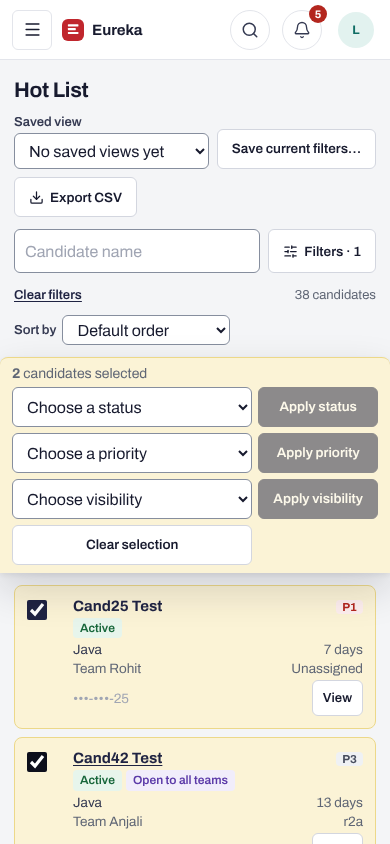
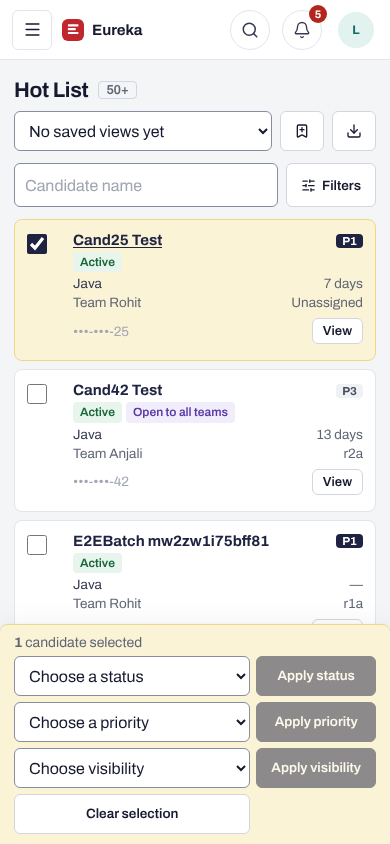
fix(web): finish-review fixes for the Hot List rebrand
- 35px rows (17 visible at 1440x900): single-line names, nowrap status
  chips, lead back in its own wide-screen column, compact row action
- red only on the mark, nav and tab rules and errors: no red top rule,
  P1 is a carbon chip, dashboard rank bars drop the indigo gradient
- result count beside the h1; selection bar takes the chip row's place
- phones: saved view and export in one row of icon buttons; bulk bar
  fixed to the bottom; units shown only with a value
- dark sidebar distinct from the page; login heading 'Sign in to Eureka'

Claude-Session: https://claude.ai/code/session_01JKYQcwPGDfTTrqpGH3t4oH

diff --git a/apps/web/src/styles.css b/apps/web/src/styles.css
@@ -36,7 +36,7 @@
   --pri-50: #20243b; --pri-100: #2a2f4b; --pri-200: #3b4166; --pri-700: #dfe1ee;
   --brand: #ff6a61; --brand-ink: #ff8a83;
   --sel: rgba(250, 204, 21, .10); --sel-line: rgba(250, 204, 21, .32);
-  --side-bg: #0a0c19; --side-line: #1d2036; --side-text: #c6c9d8; --side-muted: #8b90a8; --side-hover: #171a2e; --side-current: #1f2340;
+  --side-bg: #191c34; --side-line: #2a2e4c; --side-text: #c6c9d8; --side-muted: #8b90a8; --side-hover: #22264a; --side-current: #2b3060;
   --ok-bg: rgba(34, 197, 94, .14); --ok-fg: #5fdc8c; --ok-line: rgba(34, 197, 94, .35);
   --warn-bg: rgba(245, 158, 11, .14); --warn-fg: #f5bd4f; --warn-line: rgba(245, 158, 11, .35);
   --bad-bg: rgba(244, 63, 94, .14); --bad-fg: #ff7f86; --bad-line: rgba(244, 63, 94, .35);
@@ -62,7 +62,7 @@ table, .num, .pager-page { font-variant-numeric: tabular-nums; }
 /* Shell: carbon sidebar (brand rule, condensed caps section labels), light top bar */
 .app { display: grid; grid-template-columns: 232px minmax(0, 1fr); min-height: 100vh; }
 .side { background: var(--side-bg); color: var(--side-text); border-right: 1px solid var(--side-line); padding: 0 10px 12px; display: flex; flex-direction: column; gap: 2px;
-  position: sticky; top: 0; height: 100vh; overflow-y: auto; box-shadow: inset 0 3px 0 var(--brand); scrollbar-color: var(--side-line) transparent; }
+  position: sticky; top: 0; height: 100vh; overflow-y: auto; scrollbar-color: var(--side-line) transparent; }
 .brandrow { display: flex; align-items: center; justify-content: space-between; gap: 8px; height: 60px; padding: 3px 6px 0; flex: none; }
 .brand { color: var(--text); font-weight: 700; display: flex; gap: 10px; align-items: center; min-width: 0; }
 .side .brand { color: #fff; }
@@ -138,7 +138,7 @@ tbody tr[aria-selected="true"] td, tbody tr.selected td { background: var(--sel)
 .badge.active { background: var(--ok-bg); color: var(--ok-fg); } .badge.on_hold { background: var(--warn-bg); color: var(--warn-fg); }
 .badge.full_of_interviews { background: var(--info-bg); color: var(--info-fg); } .badge.all_teams { background: var(--violet-bg); color: var(--violet-fg); }
 .prio { font-weight: 700; font-size: 11.5px; padding: 1px 6px; border-radius: var(--r-sm); background: var(--neutral-bg); color: var(--neutral-fg); font-variant-numeric: tabular-nums; }
-.prio.P1 { background: var(--bad-bg); color: var(--bad-fg); } .prio.P2 { background: var(--warn-bg); color: var(--warn-fg); }
+.prio.P1 { background: var(--pri-btn); color: var(--on-pri); } .prio.P2 { background: var(--warn-bg); color: var(--warn-fg); }
 .masked { color: var(--faint); }
 .tabs { display: flex; gap: 8px; }
 .tab { border: 1px solid var(--line-strong); background: var(--surface); height: 30px; padding: 0 12px; border-radius: var(--r-md); font-weight: 600; font-size: 13px; color: var(--text2); display: inline-flex; align-items: center; }
@@ -171,7 +171,7 @@ tbody tr[aria-selected="true"] td, tbody tr.selected td { background: var(--sel)
 /* Sign-in: brand panel on the left, the form on the right */
 .loginpage { display: grid; grid-template-columns: minmax(0, 1fr) minmax(0, 1.1fr); min-height: 100vh; background: var(--surface); }
 .loginhero { margin: 0; color: var(--side-text); display: flex; flex-direction: column; justify-content: space-between; padding: 40px 48px 56px;
-  background: var(--side-bg); box-shadow: inset 0 3px 0 var(--brand); min-height: 100vh; }
+  background: var(--side-bg); min-height: 100vh; }
 .loginhero .brand { color: #fff; }
 .herotext { max-width: 520px; }
 .herotext h2 { font-size: 36px; line-height: 1.12; letter-spacing: -.02em; color: #fff; font-weight: 700; text-wrap: balance; }
@@ -508,7 +508,8 @@ th.num, td.num { text-align: right; font-variant-numeric: tabular-nums; }
 .bulkbar { position: sticky; top: 64px; z-index: 6; padding: 8px 12px; border: 1px solid var(--sel-line); border-radius: var(--r-md); background: var(--sel); }
 .bulkbar .toolbar { align-items: center; gap: 8px; }
 .bulkbar .field.inline label { position: absolute; width: 1px; height: 1px; overflow: hidden; clip: rect(0 0 0 0); white-space: nowrap; }
-.bulkbar .field select { min-width: 0; width: 170px; }
+.bulkbar .field select { min-width: 0; width: 150px; }
+.bulkbar .toolbar { flex-wrap: nowrap; }
 .bulkbar > [role="status"]:empty, .bulkbar p:empty { display: none; }
 .bulkfail { margin: 4px 0 0; padding-left: 18px; font-size: 12px; color: var(--warn-fg); }
 /* Resumes (CandidateResumes) */
@@ -1139,7 +1140,7 @@ tr.editing:hover td { background: var(--surface2); }
 .ranklist li { display: grid; grid-template-columns: minmax(0, 1.3fr) minmax(0, 1.4fr) 36px 56px; align-items: center; gap: 12px; }
 .rankname { color: var(--text2); font-weight: 500; overflow: hidden; text-overflow: ellipsis; white-space: nowrap; }
 .rankbar { height: 8px; border-radius: 999px; background: var(--line2); overflow: hidden; }
-.rankbar > span { display: block; height: 100%; border-radius: inherit; background: linear-gradient(90deg, #6366f1, #8b5cf6); }
+.rankbar > span { display: block; height: 100%; border-radius: inherit; background: var(--pri); }
 .rankvalue { text-align: right; font-variant-numeric: tabular-nums; color: var(--text); }
 .rankdelta { display: inline-flex; align-items: center; gap: 2px; font-size: 12px; font-weight: 600; justify-content: flex-end; }
 .rankdelta.up { color: var(--ok-fg); } .rankdelta.down { color: var(--bad-fg); } .rankdelta.flat { color: var(--muted); }
@@ -1213,14 +1214,19 @@ tr.editing:hover td { background: var(--surface2); }
 .fb-summary .chips { gap: 6px; }
 .fb-summary .chip { padding: 2px 2px 2px 8px; background: var(--surface); border: 1px solid var(--line-strong); color: var(--text); font-weight: 500; }
 .fb-summary .linkbtn { font-weight: 600; font-size: 13px; text-decoration: underline; text-underline-offset: 2px; min-height: 24px; }
-.fb-count { margin-left: auto; font-size: 13px; }
 .fb-sort { flex-direction: row; align-items: center; gap: 6px; }
 .fb-sort select { height: var(--h-compact); width: 170px; min-width: 0; }
 .listcard td small.block { font-size: 12px; line-height: 1.3; margin-top: 1px; }
-.listcard .badges { display: inline-flex; gap: 4px; flex-wrap: wrap; }
-.listcard td.c-name { white-space: normal; min-width: 150px; max-width: 220px; }
-.listcard td.c-name .persontext > b, .listcard td.c-name .persontext .linkbtn { white-space: normal; overflow-wrap: anywhere; }
-.listcard td.c-status { white-space: normal; min-width: 120px; max-width: 200px; }
+.listcard .badges { display: inline-flex; gap: 4px; flex-wrap: nowrap; }
+.listcard td { padding-block: 7px; }
+.listcard td.c-act, .listcard td.c-sel { padding-block: 4px; }
+.listcard td.c-act .btn.sm { height: 26px; padding: 0 10px; }
+.listcard td.c-name { max-width: 200px; }
+.listcard td.c-name .persontext, .listcard td.c-name .linkbtn { display: block; max-width: 100%; }
+.listcard td.c-name .persontext > b, .listcard td.c-name .linkbtn b { display: block; overflow: hidden; text-overflow: ellipsis; }
+.h1count { margin-left: 10px; font-size: 15px; font-weight: 600; color: var(--muted); font-variant-numeric: tabular-nums; vertical-align: 3px; padding: 1px 7px; border: 1px solid var(--line-strong); border-radius: var(--r-sm); }
+.fb-spacer { margin-left: auto; }
+@media (min-width: 769px) { .filterbar > .bulkbar { position: static; } }
 .listcard td, .listcard th { padding-inline: 10px; }
 td.num, th.num { text-align: right; }
 tr.rowopen { cursor: pointer; }
@@ -1232,14 +1238,19 @@ thead .c-act { background: var(--surface2); }
 tbody tr:hover td.c-act { background: var(--surface2); }
 tbody tr[aria-selected="true"] td.c-act { background: var(--sel); }
 @media (max-width: 1599px) { .cardtable .p3 { display: none; } }
-@media (max-width: 1279px) { .cardtable .p2 { display: none; } }
+@media (max-width: 1399px) { .cardtable .p2 { display: none; } }
 @media (max-width: 768px) {
   .pagehead .sub { display: none; }
-  .pageactions { width: 100%; display: flex; flex-wrap: wrap; gap: 8px; align-items: end; }
-  .pageactions .savedviews { min-width: 0; flex: 1 1 100%; }
-  .pageactions .savedviews .toolbar { display: grid; grid-template-columns: minmax(0, 1fr) auto; }
-  .pageactions .savedviews .field select { width: 100%; }
-  .pageactions .savedviews .toolbar > .btn, .pageactions .export .btn { height: 40px; }
+  .pageactions { width: 100%; display: flex; flex-wrap: nowrap; gap: 8px; align-items: center; }
+  .pageactions .savedviews { min-width: 0; flex: 1 1 auto; }
+  .pageactions .savedviews .toolbar { display: flex; flex-wrap: nowrap; gap: 8px; }
+  .pageactions .savedviews .field { flex: 1; min-width: 0; }
+  .pageactions .savedviews .field label { position: absolute; width: 1px; height: 1px; overflow: hidden; clip: rect(0 0 0 0); white-space: nowrap; }
+  .pageactions .savedviews .field select { width: 100%; height: 40px; }
+  .pageactions .savedviews .toolbar > .btn, .pageactions .export .btn { height: 40px; width: 44px; padding: 0; }
+  .pageactions .btnlabel { position: absolute; width: 1px; height: 1px; overflow: hidden; clip: rect(0 0 0 0); white-space: nowrap; }
+  .pagehead { gap: 8px; }
+  .h1count { font-size: 13px; }
   .fb-row { flex-wrap: nowrap; }
   .fb-search { flex: 1; min-width: 0; }
   .fb-search input { width: 100%; height: 44px; }

diff --git a/apps/web/src/sales/HotListPage.tsx b/apps/web/src/sales/HotListPage.tsx
@@ -4,7 +4,7 @@ import type { Permission } from "@eureka/shared";
 import type { Candidate, Me } from "../api";
 import { salesError } from "./errors";
 import { BulkBar, ExportButton, SavedViews } from "./HotListExtras";
-import { ListFilters, ListFooter } from "./ListControls";
+import { ListFilters, ListFooter, resultCount } from "./ListControls";
 import { useQuery } from "@tanstack/react-query";
 import { HOTLIST_STATUS_OPTIONS, hotlistApi, salesKeys } from "./salesApi";
 import { Drawer, OpenToAllBadge, SharedBadge, Phone, Priority, StatusBadge, fmtDate } from "./ui";
@@ -72,14 +72,14 @@ export function HotListPage({ me, onOpenProfile }: ListPageProps) {
     if (next.has(id)) next.delete(id); else next.add(id);
     return next;
   });
-  const cols = canBulk ? 13 : 12;
+  const cols = canBulk ? 14 : 13;
   const yesNo = (v: boolean | null | undefined) => (v === true ? "Yes" : v === false ? "No" : "—");
 
   return (
     <>
       <div className="pagehead">
         <div>
-          <h1 tabIndex={-1}>Hot List</h1>
+          <h1 tabIndex={-1}>Hot List{resultCount(s) && <span className="h1count" aria-label={`, ${resultCount(s)} candidates`}>{resultCount(s)}</span>}</h1>
           <p className="sub">Your team's candidates and every candidate open to all teams. Phones show only for candidates in your scope.</p>
         </div>
         <div className="pageactions">
@@ -87,11 +87,11 @@ export function HotListPage({ me, onOpenProfile }: ListPageProps) {
           {canExport && <ExportButton s={s} />}
         </div>
       </div>
-      <ListFilters s={s} label="Hot List" statuses={HOTLIST_STATUS_OPTIONS} options={options.data} />
-      {canBulk && (
-        <BulkBar selected={selected} items={items} canStatus={canStatus} canVisibility={canVisibility}
-          onDone={() => setSelected(new Set())} />
-      )}
+      <ListFilters s={s} label="Hot List" statuses={HOTLIST_STATUS_OPTIONS} options={options.data} selecting={canBulk && selected.size > 0}
+        selection={canBulk && (
+          <BulkBar selected={selected} items={items} canStatus={canStatus} canVisibility={canVisibility}
+            onDone={() => setSelected(new Set())} />
+        )} />
       <div className="card tablewrap listcard">
         {s.q.isLoading ? <Loading /> : s.q.error ? <QueryError query={s.q} message={salesError(s.q.error)} /> : (
           <table className="cardtable hotlist" aria-label="Hot List" aria-busy={s.q.isFetching || undefined}>
@@ -107,7 +107,7 @@ export function HotListPage({ me, onOpenProfile }: ListPageProps) {
                     })} />
                 </th>
               )}
-              <th>Candidate</th><th>Technology</th><th>Status</th><th>Pri</th><th>Team</th><th>Recruiter</th>
+              <th>Candidate</th><th>Technology</th><th>Status</th><th>Pri</th><th>Team</th><th className="p3">Lead</th><th>Recruiter</th>
               <th className="p2">Location</th><th className="p2">Visa</th><th className="p3">Stay</th><th className="p3">In person</th>
               <th>Phone</th><th className="num">Days</th><th className="c-act"><span className="sr-only">Actions</span></th>
             </tr></thead>
@@ -133,14 +133,15 @@ export function HotListPage({ me, onOpenProfile }: ListPageProps) {
                     {c.statusLabel && c.statusLabel.includes("/") && !/\/all teams$/i.test(c.statusLabel) && <small className="block">{c.statusLabel}</small>}
                   </td>
                   <td className="c-pri"><Priority p={c.priority} /></td>
-                  <td className="c-team">{c.team.name}{c.team.lead && <small className="block">Lead <span>{c.team.lead}</span></small>}</td>
+                  <td className="c-team">{c.team.name}</td>
+                  <td className="p3">{c.team.lead ?? "—"}</td>
                   <td className="c-rec">{c.recruiter?.name ?? <span className="muted">Unassigned</span>}</td>
                   <td className="p2">{c.location.name}</td>
                   <td className="p2">{c.visaCategory ? visaLabel(c.visaCategory) : "—"}</td>
                   <td className="p3">{c.stay ? stayLabel(c) : "—"}</td>
                   <td className="p3">{yesNo(c.inPersonOk)}</td>
                   <td className={`c-phone${c.phoneMasked ? " masked" : ""}`}><Phone c={c} /></td>
-                  <td className="c-days num">{c.daysInMarket ?? "—"}<span className="cardonly"> days</span></td>
+                  <td className="c-days num">{c.daysInMarket != null ? <>{c.daysInMarket}<span className="cardonly"> days</span></> : "—"}</td>
                   <td className="c-act">
                     <button type="button" className="btn sm" aria-label={`Quick view of ${c.name}`} onClick={() => setPreview(c)}>View</button>
                   </td>

diff --git a/apps/web/src/sales/ListControls.tsx b/apps/web/src/sales/ListControls.tsx
@@ -16,10 +16,13 @@ type SecondaryKey = "visibility" | "locationId" | "visa" | "documents" | "resume
  * box and a Filters button that opens every filter as a sheet. Sort and the result count sit
  * under the bar. Every value lives in the URL (useCandidateList).
  */
-export function ListFilters({ s, label, statuses, batches, options, actions }: {
+export function ListFilters({ s, label, statuses, batches, options, actions, selection, selecting = false }: {
   s: ListState; label: string; statuses: readonly string[]; batches?: { id: string; label: string }[]; options?: FilterOptions;
   /** Extra controls on the right of the summary row (saved views, export). */
   actions?: ReactNode;
+  /** The bulk-selection bar: while `selecting`, it takes the summary row's place. */
+  selection?: ReactNode;
+  selecting?: boolean;
 }) {
   const id = useId();
   const [open, setOpen] = useState(false);
@@ -54,8 +57,6 @@ export function ListFilters({ s, label, statuses, batches, options, actions }: {
   if (s.extra.inPerson) chips.push(["inPerson", s.extra.inPerson === "yes" ? "In person" : "Not in person", () => s.setExtra("inPerson", "")]);
   if (s.extra.ghLocationId) chips.push(["ghLocationId", `Guest house: ${optLabel(ghOpts, s.extra.ghLocationId)}`, () => s.setExtra("ghLocationId", "")]);
   const primarySet = [s.searchInput, s.technologyInput, s.status, s.batchId, ...(options ? [s.extra.priority, s.extra.teamId, s.extra.recruiterId] : [])].filter(Boolean).length;
-  const n = s.q.data?.items.length;
-  const more = s.q.data?.nextCursor;
 
   return (
     <div className={`filterbar${open ? " open" : ""}`}
@@ -128,7 +129,8 @@ export function ListFilters({ s, label, statuses, batches, options, actions }: {
           </div>
         </div>
       </form>
-      <div className="fb-summary">
+      {selection}
+      {!selecting && <div className="fb-summary">
         {chips.length > 0 && (
           <ul className="chips" aria-label="Active filters">
             {chips.map(([k, text, clear]) => (
@@ -139,7 +141,7 @@ export function ListFilters({ s, label, statuses, batches, options, actions }: {
           </ul>
         )}
         {s.hasFilters && <button type="button" className="linkbtn" onClick={s.clear}>Clear filters</button>}
-        <span className="fb-count muted">{n === undefined ? "" : `${n}${more ? "+" : ""} ${n === 1 && !more ? "candidate" : "candidates"}`}</span>
+        <span className="fb-spacer" />
         {options && (
           <div className="field inline fb-sort">
             <label htmlFor={`${id}-sort`}>Sort by</label>
@@ -150,9 +152,16 @@ export function ListFilters({ s, label, statuses, batches, options, actions }: {
           </div>
         )}
         {actions}
-      </div>
+      </div>}
     </div>
   );
+}
+
+/** "38" or "50+" (more on the next page) for a heading; empty while loading. */
+export function resultCount(s: ListState): string {
+  const n = s.q.data?.items.length;
+  if (n === undefined || s.q.error) return "";
+  return `${n}${s.q.data?.nextCursor ? "+" : ""}`;
 }
 
 /** Result count (announced politely) and Previous / Next page controls. */

diff --git a/apps/web/src/sales/CandidatesPage.tsx b/apps/web/src/sales/CandidatesPage.tsx
@@ -5,7 +5,7 @@ import { navigate } from "../lib/router";
 import { screenPath } from "../nav";
 import { CreateCandidateDialog } from "./CreateCandidateDialog";
 import { CandidateName, profileOpenable, type ListPageProps } from "./HotListPage";
-import { ListFilters, ListFooter } from "./ListControls";
+import { ListFilters, ListFooter, resultCount } from "./ListControls";
 import { STATUSES, salesApi, salesKeys } from "./salesApi";
 import { OpenToAllBadge, SharedBadge, Phone, Priority, StatusBadge } from "./ui";
 import { useCandidateList } from "./useCandidateList";
@@ -30,7 +30,7 @@ export function CandidatesPage({ me, onOpenProfile }: ListPageProps) {
   return (
     <>
       <div className="pagehead">
-        <div><h1 tabIndex={-1}>Candidates</h1><p className="sub">Candidates in your scope: your own, your team's, and those you manage.</p></div>
+        <div><h1 tabIndex={-1}>Candidates{resultCount(s) && <span className="h1count" aria-label={`, ${resultCount(s)} candidates`}>{resultCount(s)}</span>}</h1><p className="sub">Candidates in your scope: your own, your team's, and those you manage.</p></div>
         <div className="rowactions push">
           {batches.data?.canCreate && (
             <button type="button" className="btn" onClick={() => setCreating("batch")}>New batch</button>
@@ -63,7 +63,7 @@ export function CandidatesPage({ me, onOpenProfile }: ListPageProps) {
                   <td className="c-rec">{c.recruiter?.name ?? <span className="muted">Unassigned</span>}</td>
                   <td className="p2">{c.location.name}</td>
                   <td className={`c-phone${c.phoneMasked ? " masked" : ""}`}><Phone c={c} /></td>
-                  <td className="c-days num">{c.technicalRating ? `${c.technicalRating}/5` : "—"}<span className="cardonly"> rating</span></td>
+                  <td className="c-days num">{c.technicalRating ? <>{c.technicalRating}/5<span className="cardonly"> rating</span></> : "—"}</td>
                 </tr>
                 );
               })}

diff --git a/apps/web/src/sales/HotListExtras.tsx b/apps/web/src/sales/HotListExtras.tsx
@@ -1,7 +1,7 @@
 /** Hot List saved views, bulk actions and export (apps/api/src/modules/hotlist). The server checks every action. */
 import { useId, useState, type FormEvent } from "react";
 import { useMutation, useQuery, useQueryClient } from "@tanstack/react-query";
-import { Download } from "lucide-react";
+import { BookmarkPlus, Download } from "lucide-react";
 import { ApiError, type Candidate } from "../api";
 import { saveBlob } from "../lib/download";
 import { TeamChecklist } from "./TeamChecklist";
@@ -83,7 +83,7 @@ export function SavedViews({ s }: { s: ListState }) {
             {items.map((v) => <option key={v.id} value={v.id}>{v.name}</option>)}
           </select>
         </div>
-        <button type="button" className="btn" onClick={() => open("save")}>Save current filters…</button>
+        <button type="button" className="btn" onClick={() => open("save")}><BookmarkPlus size={16} aria-hidden="true" /><span className="btnlabel">Save current filters…</span></button>
         {current && (
           <>
             <button type="button" className="btn" onClick={() => open("rename")}>Rename</button>
@@ -129,7 +129,7 @@ export function ExportButton({ s }: { s: ListState }) {
     <div className="export">
       <button type="button" className="btn" disabled={run.isPending} onClick={() => run.mutate()} aria-describedby="hotlist-export-hint"
         title={`Exports this view for candidates in your scope, up to ${EXPORT_ROW_CAP.toLocaleString("en-US")} rows. Phones are masked.`}>
-        <Download size={15} aria-hidden="true" />{run.isPending ? "Exporting…" : "Export CSV"}
+        <Download size={16} aria-hidden="true" /><span className="btnlabel">{run.isPending ? "Exporting…" : "Export CSV"}</span>
       </button>
       <small id="hotlist-export-hint" className="sr-only">Exports this view for candidates in your scope, up to {EXPORT_ROW_CAP.toLocaleString("en-US")} rows. Phones are masked.</small>
       {run.isError ? (

diff --git a/apps/web/src/App.tsx b/apps/web/src/App.tsx
@@ -206,7 +206,7 @@ export function Login({ onSignedIn, devMode = import.meta.env.DEV }: { onSignedI
               {theme === "dark" ? <Sun size={15} aria-hidden="true" /> : <Moon size={15} aria-hidden="true" />}{theme === "dark" ? "Light theme" : "Dark theme"}
             </button>
           </div>
-          <h1>Hi, welcome back!</h1>
+          <h1>Sign in to Eureka</h1>
           {passwordLogin && <PasswordForm onSignedIn={onSignedIn} onError={setErr} />}
           {passwordLogin && err && <p className="error" role="alert">{err}</p>}
           {devMode ? (

diff --git a/apps/web/src/App.test.tsx b/apps/web/src/App.test.tsx
@@ -139,7 +139,7 @@ describe("sign out", () => {
     wrap(<App />);
     fireEvent.click(await screen.findByRole("button", { name: "Account: Test User" }));
     fireEvent.click(screen.getByRole("button", { name: "Sign out" }));
-    expect(await screen.findByRole("heading", { name: "Hi, welcome back!" })).toBeInTheDocument();
+    expect(await screen.findByRole("heading", { name: "Sign in to Eureka" })).toBeInTheDocument();
     expect(fetchMock).toHaveBeenCalledWith("/api/auth/logout", expect.objectContaining({ method: "POST" }));
   });
 });

diff --git a/apps/web/.impeccable/surfaces/src-sales-hotlistpage-tsx.md b/apps/web/.impeccable/surfaces/src-sales-hotlistpage-tsx.md
@@ -18,3 +18,11 @@ STORY: A recruiter lands on the Hot List, sees their filters as chips and the fi
 FIRST VIEWPORT: Carbon sidebar 224px left; top bar with Quick jump, bell, user. h1 "Hot List" + count; one filter row (Search, Technology, Status, Priority, Team, Recruiter, More filters·n, Saved view); active chips + result count; table at y≈260 with condensed caps headers, 34px rows, row action pinned right; selection bar replaces chip row while rows are selected. Phone: h1, search + Filters(n) button opening a sheet, candidate cards.
 FORM: Category-standard enterprise list, assigned world Air Waybill (form 6 of 7) fused per user pin; seed:9eba1a3993cefad8
 FINISH: unreviewed and undocumented is unfinished; this build ends with the finish review, the verdict, DESIGN.md, and every shipping raster carrying its provenance
+
+## Cited deviations (after finish review 1, 2026-11-05)
+- Primary action is carbon ink (`--pri-btn`), not red: the user pinned "restrained red brand accents", and red primaries read as destructive next to errors. Red is kept for the mark, the current-nav rule, the active-tab underline and errors.
+- The red top rule on the sidebar and login panel was removed (decoration). P1 is a carbon chip, not red.
+- Sort stays a select on the summary row, not sortable column headers: the server's sort keys (LIST_SORTS) do not map one-to-one to columns. Header sorting needs an API change, so it is deferred.
+- Quick jump stays an icon button in the top bar (Ctrl/Cmd+K). A visible field is deferred to the shell wave (nav regroup and phone drawer).
+- Saved views and Export sit in the page head (icon buttons on phones), not in the filter row.
+- The count sits beside the h1 as a small boxed figure ("38", or "50+" when more pages exist).
